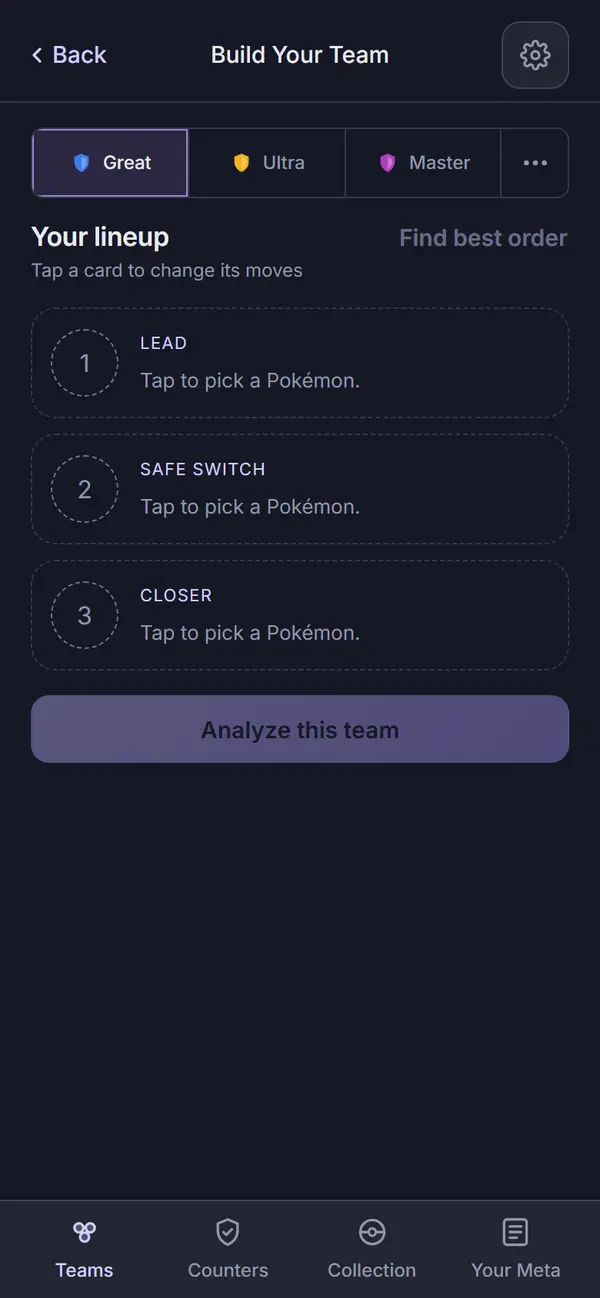
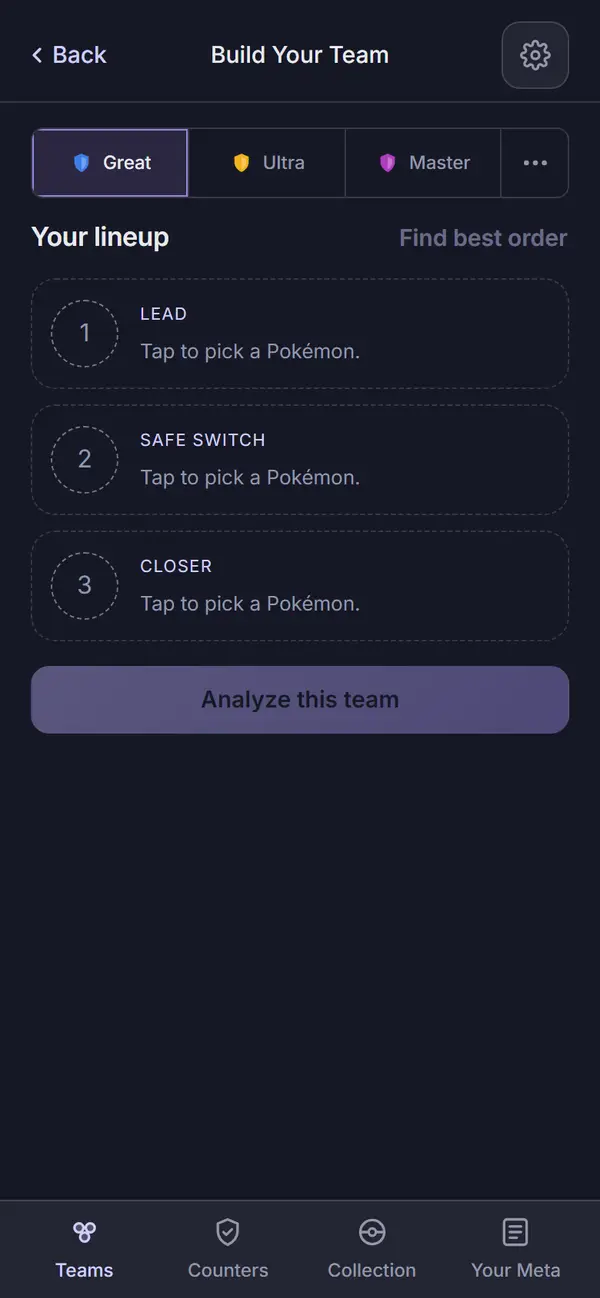
Design: Build record after the final fix wave
The + Add test now asserts that no search opens, so the record's claim stands. The text-levels
tick names the 19px card name as a kept exception for Travis to rule on; shadowToken's count is
22; a suggestion row is described as the button it is, with "+ Add" as its cue; Ruling 3 says it
departs from the spec's "'Choosing' moves to the next empty one"; the 12px supporting text is
deferred to one app-wide pass. Fresh web:audit captures (the empty-board hint gone, "88 XL Candy"
on one line), new test citations, counts and findings rows for the wave. Sign-off left unticked.

Claude-Session: https://claude.ai/code/session_01QpDSW9ZhLWToL3VMBP1mJq

diff --git a/apps/web/test/build.test.tsx b/apps/web/test/build.test.tsx
@@ -429,6 +429,8 @@ describe('Build a team', () => {
     await pickFirst('tink', 'Tinkaton');
     fireEvent.click(await screen.findByRole('button', { name: 'Add Azumarill' }));
     await screen.findByRole('button', { name: 'Remove Azumarill' });
+    // + Add opens no search: the next empty slot stays shut.
+    expect(screen.queryByPlaceholderText(/Search any Pokémon/)).not.toBeInTheDocument();
     expect(screen.getByRole('button', { name: 'Closer, empty' })).toBeInTheDocument();
     await pickFirst('clod', 'Clodsire');
     await waitFor(() =>

diff --git a/docs/design/audits/build.md b/docs/design/audits/build.md
@@ -18,19 +18,23 @@ and shows those instead; nothing on this branch touched sprite rendering itself.
 ## Screenshots
 
 Dark and light at 390px, one pair per state, converted to WebP (600px wide, quality 72) the same
-way the Teams images were, from `apps/web/screenshots/<name>-{dark,light}.png` (2026-09-25 run).
+way the Teams images were, from `apps/web/screenshots/<name>-{dark,light}.png` (2026-09-25 run,
+re-captured in the final fix wave at `32959a7`: `build-empty` and `build-choosing` lost the lineup
+hint, which now waits for a card, and `build-cost`'s total keeps "88 XL Candy" on one line;
+`13b-build-moves` dark differs by a few bytes with nothing visible changed, and the other images
+came out byte for byte the same).
 `build-empty`, `13-build` and `build-cost` are full-page; `build-choosing`, `build-suggestions` and
 `13b-build-moves` are viewport shots (the last two mid-flow, where a full-page shot would include
 nothing new below the fold).
 
 | State | Dark | Light |
 | --- | --- | --- |
-| `build-empty`: three dashed empty slots, Find best order and Analyze both disabled | ![](img/build-empty-dark.webp) | ![](img/build-empty-light.webp) |
+| `build-empty`: three dashed empty slots, no lineup hint (there is no card to tap yet), Find best order and Analyze both disabled | ![](img/build-empty-dark.webp) | ![](img/build-empty-light.webp) |
 | `build-choosing`: the Lead slot's search open, "Choosing Lead" with the role's job above it, the Suggested grid ("yours" tags on owned species) | ![](img/build-choosing-dark.webp) | ![](img/build-choosing-light.webp) |
 | `build-suggestions`: one pick made (Skarmory), "Best with your first pick" with two + Add rows, each a reason against the pin alone | ![](img/build-suggestions-dark.webp) | ![](img/build-suggestions-light.webp) |
 | `13-build`: all three slots filled with species picks (none owned), "None of these are yours yet, so there is nothing to price.", Analyze enabled (full page) | ![](img/13-build-dark.webp) | ![](img/13-build-light.webp) |
 | `13b-build-moves`: the move sheet open on Azumarill, two charged moves ticked, the third disabled with "Untick one to pick another" and a "Changed" tag on the swapped move | ![](img/13b-build-moves-dark.webp) | ![](img/13b-build-moves-light.webp) |
-| `build-cost`: all three slots filled with owned specimens (Galarian Corsola, Clodsire, Feraligatr), "Total to build" with a real Stardust/Candy/XL Candy/Elite TM total (full page) | ![](img/build-cost-dark.webp) | ![](img/build-cost-light.webp) |
+| `build-cost`: all three slots filled with owned specimens (Galarian Corsola, Clodsire, Feraligatr), "Total to build" with a real Stardust/Candy/XL Candy/Elite TM total, each number kept with its unit across the wrap (full page) | ![](img/build-cost-dark.webp) | ![](img/build-cost-light.webp) |
 
 Not captured: the analyze error state (`ErrorState` on a failed `analyze()`), the "Finding the best
 order..." transient, the verdicts-loading progress bar under the grid, and dragging a card. None of
@@ -41,11 +45,12 @@ confirms the grip and drag effect were kept, not rebuilt).
 ## Automated checks
 
 - [x] `npm run web:audit` clean for this page's screens (listed in `AUDIT_ENFORCED`), run
-      2026-09-25 against commit `976a834`: exit 0. Zero findings on all six enforced Build screens
-      (`build-empty`, `build-choosing`, `build-suggestions`, `13-build`, `13b-build-moves`,
-      `build-cost`), in both themes. 978 findings remain on screens not yet redesigned, none
-      failing the run.
-- [x] the run's own guards, all passed in this run (per Task 5's fixes):
+      2026-09-25 against commit `976a834` and again in the final fix wave against `32959a7`: exit
+      0 both times. Zero findings on all six enforced Build screens (`build-empty`,
+      `build-choosing`, `build-suggestions`, `13-build`, `13b-build-moves`, `build-cost`), in both
+      themes. 978 findings remain on screens not yet redesigned, none failing the run.
+- [x] the run's own guards, all passed in both runs (per Task 5's fixes; the values below are the
+      same in each):
   - the header's title left edge and last icon-button's right edge sit within the tolerance of the
     league row's edges (`build-empty`: `{"left":2,"right":0}`);
   - `assertTitleCentred()` holds on Build (checked on `21-log-battle` too, since the fix moved the
@@ -55,15 +60,18 @@ confirms the grip and drag effect were kept, not rebuilt).
   - suggestions never fill a slot on their own (`build-suggestions`: exactly one `.pick-card.filled`
     after Skarmory is picked and `.mate-row` appears);
   - `build-cost`'s `.build-cost` box contains a real "Total to build" line, not a placeholder.
-- [x] no console errors: the run printed no "Browser errors" section.
+- [x] no console errors: neither run printed a "Browser errors" section.
 - [x] `npm run ui:audit` re-run 2026-09-25: "gallery audit: clean in dark and light" (unaffected by
-      this task; run as the standing smoke check).
+      this task; run as the standing smoke check). Not re-run in the final fix wave: nothing under
+      `packages/ui` changed there.
 - [x] `npm run meta:screens` re-run 2026-09-25: exit 0, a smoke check for `packages/ui/base.css`'s
-      `.pick-move-k` color change, which also reaches meta.pick3.gg's Species page.
+      `.pick-move-k` color change, which also reaches meta.pick3.gg's Species page. Not re-run in
+      the final fix wave: nothing under `packages/ui` or `apps/meta` changed there.
 - [x] `npm run lint`, `npm run typecheck`, `npm test`, `npm run check-colors`, `npm run
-      check-tokens`, all re-run 2026-09-25 at `976a834`: lint exit 0; typecheck exit 0 across all
-      workspaces; `npm test` 131 files, 1,131 tests passed; `check-colors` exit 0 (baseline
-      untouched); `check-tokens`: ok.
+      check-tokens`, all re-run 2026-09-25 at `976a834` and again in the final fix wave (code at
+      `32959a7`): lint exit 0; typecheck exit 0 across all workspaces; `npm test` 131 files, 1,131
+      tests passed, then 1,138 after the wave's seven new Build tests; `check-colors` exit 0
+      (baseline untouched); `check-tokens`: ok.
 
 ## Aesthetics
 
@@ -75,27 +83,35 @@ confirms the grip and drag effect were kept, not rebuilt).
       branch (visible and legible on Melmetal's steel disc, Corsola's and Clodsire's split discs,
       and Skarmory's Steel/Flying disc, in both themes). No pink appears on this page: Build has no
       measured data of its own, only PvPoke-assumed IVs and your own specimen stats.
-- [x] at most four text levels, one page title: one page title, "Build Your Team", in every
-      capture (`Header variant="sub"`). Levels visible across the captures: the page title;
-      section heads and card/species names (both bold, unified at `--fs-section`/600 for the
-      section heads per Task 5's fix, and 19px/700 for a card's own species name); body and
-      explanation text (the role's job line, the move lines, the IV/level line); and small muted
-      text (the role pill, "yours" and "Changed" tags, the "TM" badge, the hint lines). No fifth
-      level found in any capture.
+- [x] at most four text levels, one page title, **with one kept exception for Travis to rule on
+      at sign-off**: one page title, "Build Your Team", in every capture (`Header variant="sub"`).
+      Levels visible across the captures: the page title; section heads ("Your lineup", "Choosing
+      Lead", "Best with your first pick"), unified at `--fs-section` (17px)/600 per Task 5's fix;
+      body and explanation text (the role's job line, the move lines, the IV/level line); and
+      small muted text (the role pill, "yours" and "Changed" tags, the "TM" badge, the hint
+      lines). The exception: a card's own species name is 19px/700 (`.pick-name`,
+      `apps/web/src/app.css`), a size of its own, visibly larger than "Your lineup" in `13-build`,
+      `13b-build-moves`, `build-suggestions` and `build-cost`, and not on the foundation's scale
+      (24/17/15/13, plus 11 for labels). It is kept as today's card, since the spec has Build keep
+      today's cards; counted on its own it would be a fifth level. The alternative is one rule,
+      `.pick-name { font-size: var(--fs-section); font-weight: 600 }`, and a recapture of those
+      four screens.
 - [x] one filled primary button: `Build.tsx` renders exactly one `Button variant="primary"`
       ("Analyze this team", disabled until all three slots are filled) and exactly one other named
       `Button`, `variant="text"` ("Find best order", also disabled until full); the move sheet's
-      "Reset to recommended" is the same text variant. "+ Add" on a suggestion row is a plain
-      text-style link (`.mate-add`: `color: var(--accent-text)`, no background), not a button
-      variant. Confirmed in every capture that shows one of these: `build-empty` (both disabled),
+      "Reset to recommended" is the same text variant. On a suggestion row the whole row is the
+      button (`TeammateSuggestions.tsx`, `aria-label="Add <name>"`), a surface card and not a
+      button variant; "+ Add" is its visible cue only (`.mate-add`, `aria-hidden`,
+      `color: var(--accent-text)`, no background), as the spec asks ("the whole row is the
+      button, the + its visible cue"). Confirmed in every capture that shows one of these: `build-empty` (both disabled),
       `13-build` and `build-cost` (both enabled).
 - [x] chips tapped, tags read: the type chips (Water, Ground, Fairy, Steel, and so on) are
       read-only labels on every card and offer row, never pressable. The "yours" and "Changed"
       tags are the neutral `ui` `Tag` (global constraint 7; the grid's "yours" was a raw
       `<span className="tag">` until the Task 4 review's I2, fixed in `4020159`). The role pill
       (LEAD / SAFE SWITCH / CLOSER) is a read-only label on the card, not a control. No pressable
-      chip row exists on Build; "+ Add" is the only tap target inside a suggestion row, and it
-      fills the slot rather than toggling a chip.
+      chip row exists on Build; a suggestion row is one tap target as a whole (its "+ Add" is a
+      cue, not a separate control), and it fills the slot rather than toggling a chip.
 - [x] the right header variant: every capture uses `Header variant="sub"` (a labeled back link,
       centered title, and a `Settings` `IconButton` on the right), matching Build's own row in the
       inventory ("Available actions": "Back", "Cog: Settings sheet"). The title's left edge and
@@ -139,7 +155,10 @@ confirms the grip and drag effect were kept, not rebuilt).
   - Per-team move overrides that do not touch the collection: the "Changed" tag on Hydro Pump in
     `13b-build-moves`, tested by `MovePicker.test.tsx`'s "shows the recommended set and tags what
     differs from it" and `build.test.tsx`'s "shows the move pool once it arrives, and each move
-    change at once".
+    change at once". The card's "Moves changed" tag shows only while the moves differ from the
+    recommendation: Reset to recommended, or the recommended charged pair ticked again in the
+    other order, clears it (`build.test.tsx`'s "says Moves changed only while the moves differ
+    from the recommendation", final fix wave I2).
   - Search input at the top, results under it, slots under that (the mobile input rule): see the
     dedicated line below.
   - Suggested picks when the search is empty (recent opponents plus top meta, your own specimen
@@ -149,20 +168,25 @@ confirms the grip and drag effect were kept, not rebuilt).
     one-line reason ("Beats Shadow Ninetales, Galarian Corsola, Corviknight and 15 more that
     Skarmory loses to.") and no numeric score; the verdict belongs to Analyze, unchanged.
 - [x] every control does what its label says: league tabs switch league and move pools (unchanged
-      code, not re-tested here); an empty slot opens its search (`build-choosing`); a filled card
-      opens the move sheet (`13b-build-moves`; `build.test.tsx`'s "opens and closes the moves sheet
-      for a filled slot" and "opens the move sheet from a card, with Analyze as the one primary
-      button"); "+ Add" fills the first empty slot without opening a search
-      (`build.test.tsx`'s "+ Add fills the first empty slot and the list goes once all three are
-      in"); Find best order and Analyze are disabled until the team is full
-      (`build-empty`) and enabled once it is (`13-build`, `build-cost`).
+      code), and a switch takes the old league's teammate rows down at once, with no new ask
+      until the new league's bundle has loaded (`build.test.tsx`'s "takes the old league
+      teammates down the moment the league changes", final fix wave I1); an empty slot opens its
+      search (`build-choosing`); a filled card opens the move sheet (`13b-build-moves`;
+      `build.test.tsx`'s "opens and closes the moves sheet for a filled slot" and "opens the move
+      sheet from a card, with Analyze as the one primary button"); "+ Add" fills the first empty
+      slot without opening a search (`build.test.tsx`'s "+ Add fills the first empty slot and the
+      list goes once all three are in", which asserts that no search input is open after the add);
+      Find best order and Analyze are disabled until the team is full (`build-empty`) and enabled
+      once it is (`13-build`, `build-cost`).
 - [x] back returns to the origin with filters and scroll, for the flows this task touched: the
       inventory's original rule ("Back '<Teams>': always goes to Teams") is superseded by Ruling 5
       (back is labeled "Back" and the origin varies): `history.ts`'s `markEntry`/`canGoBack` track
       how many pick3 screens sit behind the current one in this tab, and `Actions.back(fallback)`
       uses real browser back when there is somewhere to go, falling back to Teams only when there
-      is not. `build.test.tsx`'s "Back returns to Teams when Build was the first screen" and
-      `history.test.ts`'s four tests (including "keeps a marked entry's pick3Depth through
+      is not. `build.test.tsx`'s "Back returns to Teams when Build was the first screen" (the
+      fallback), "Back goes back through history when pick3 has a screen behind Build" (the origin
+      path: `canGoBack()` true, `window.history.back()` called) and `history.test.ts`'s four
+      tests (including "keeps a marked entry's pick3Depth through
       clearShareMarker", the Task 1 review's fix) cover it. Build carries no filters or scroll
       position of its own to preserve.
 - [x] input layout rule: applicable here (Build has a text input, unlike Teams). `build-choosing`
@@ -171,14 +195,15 @@ confirms the grip and drag effect were kept, not rebuilt).
       (`TeammateSuggestions`) are the shortcut content and are hidden whenever a slot's search is
       open (`Build.tsx`: `{target === null && (pinned === 1 || pinned === 2) ? <TeammateSuggestions
       .../> : null}`, with the comment "Shortcuts last, and hidden while a slot's search is open:
-      the keyboard covers them.") per Ruling 3. This gating has no capture or unit test of its own;
-      it is confirmed by reading the code, not by a passing assertion, so it is ticked on the
-      strength of the `must keep` line ("Search input at the top... the mobile input rule") that
-      the same code satisfies elsewhere, not on a dedicated check. Flagged again under Findings.
+      the keyboard covers them.") per Ruling 3. `build.test.tsx`'s "hides the suggestions while a
+      slot search is open" opens Safe Switch's search with a list up, finds no "Suggested
+      teammates" region, presses Escape and finds it again.
 - [x] icon buttons named; focus visible: the header's `Settings` `IconButton` carries the label
       "Settings" (`Header.tsx`, unchanged); the X on a filled card empties the slot (unchanged,
-      pre-existing `aria-label`); "+ Add" carries `aria-label="Add <name>"` (Task 3's report and
-      review, confirmed by an accessibility check in the review); the shared `Button`/`IconButton`
+      pre-existing `aria-label`); a suggestion row is one button named "Add <name>" by its
+      `aria-label`, with the visible "+ Add" cue `aria-hidden` (Task 3's report and review,
+      confirmed by an accessibility check in the review, and the name every `build.test.tsx`
+      suggestion test clicks by); the shared `Button`/`IconButton`
       focus-visible outline is the one audited on other pages (gallery record), unchanged here.
 - [x] product rules: assumptions shown ("Not yours; top-10% IVs assumed", "from your X",
       "None of these are yours yet, so there is nothing to price." and the unbuildable-count line
@@ -187,11 +212,11 @@ confirms the grip and drag effect were kept, not rebuilt).
       community read, is the same league-only board fetch used on Teams, gated the same way);
       `connect-src` unchanged (no CSP edit on this branch); sharing copy is not applicable to
       Build (no sharing toggle lives on this screen).
-- [x] tests cover the new behavior: `apps/web/test/build.test.tsx` (15 cases),
-      `apps/web/test/lineupCost.test.ts` (4), `apps/web/test/MovePicker.test.tsx` (9),
-      `apps/web/test/teammateSuggestions.test.tsx` (3), `apps/web/test/history.test.ts` (4),
-      `apps/web/test/shadowToken.test.tsx` (5) and `packages/ui/test/Sheet.test.tsx` (8, one new
-      for this branch).
+- [x] tests cover the new behavior: `apps/web/test/build.test.tsx` (22 cases: 15, plus 7 from the
+      final fix wave), `apps/web/test/lineupCost.test.ts` (4), `apps/web/test/MovePicker.test.tsx`
+      (9), `apps/web/test/teammateSuggestions.test.tsx` (3), `apps/web/test/history.test.ts` (4),
+      `apps/web/test/shadowToken.test.tsx` (22: 4 fixed cases plus 18 generated, one per type) and
+      `packages/ui/test/Sheet.test.tsx` (8, one new for this branch).
 - [x] the new behaviors (this plan's Rulings, see below for the rulings themselves):
   - Ruling 1 (suggestions list = each offer's first fill): `teammateOffers` dedupes by species and
     excludes anything already on the board, tested by all three cases in
@@ -199,13 +224,15 @@ confirms the grip and drag effect were kept, not rebuilt).
     each, neither already picked).
   - Ruling 2 (heading text by fill count): `filled === 1 ? 'Best with your first pick' :
     'Best with your first two'` (`TeammateSuggestions.tsx`). The one-fill heading is captured
-    (`build-suggestions`); the two-fill heading has no capture and no test of its own (none of the
-    six enforced screens reaches two pins before the third fills the board). Traced in code only;
-    flagged under Findings.
+    (`build-suggestions`); the two-fill heading has no capture (none of the six enforced screens
+    reaches two pins before the third fills the board) and is covered by `build.test.tsx`'s
+    "heads the list by how many are on the board", which picks Tinkaton, adds Azumarill and finds
+    "Best with your first two" over the next list.
   - Ruling 3 (suggestions hidden while a slot's search is open; + Add opens no search): the
-    `target === null` gate above; `build.test.tsx`'s "+ Add fills the first empty slot and the
-    list goes once all three are in" confirms + Add does not open a search, but no test asserts
-    the list disappears while a search is open. Traced in code only; flagged under Findings.
+    `target === null` gate above, tested by `build.test.tsx`'s "hides the suggestions while a slot
+    search is open"; "+ Add fills the first empty slot and the list goes once all three are in"
+    asserts that no search input is open after + Add. This ruling departs from one spec
+    sentence; see Ruling 3 under "Rulings applied" below.
   - Ruling 4 (total cost counts your own Pokémon only): `build-cost` shows a real total for three
     owned picks; `13-build` shows "None of these are yours yet, so there is nothing to price." for
     zero; `lineupCost.test.ts`'s four cases (including the mixed priced/unbuildable/unpriced case
@@ -238,10 +265,14 @@ confirms the grip and drag effect were kept, not rebuilt).
 | Seen in the captures, not caught by axe: the sub header sat off the gutter; "Find best order" sat 8px inside the gutter and its 44px target pushed the hint line down; filled cards and the cost box had no border (most visible in light); the three section heads did not share one size and weight. | `.hdr` padding-right (later replaced, see the next row); `margin-block: -12px` and no right padding on the "Find best order" button; a 1px `--divider` border and `--r-card` radius on filled/empty cards and `.build-cost`; section heads unified at `--fs-section`/600. | `366a2a5` |
 | Coordinator's look at the first captures: the "SAFE SWITCH" role pill wrapped to two lines in the 88px sprite column; `13-build`'s picks were unchanged species with nothing to price, so no total was captured; `13-build` was a viewport shot with text under the sticky header. | Pill set `white-space: nowrap` (later revised, see below); a new enforced `build-cost` capture fills three slots from owned specimens and asserts a real "Total to build" line; `13-build` shot full page from the top instead of scrolled/cropped. | `9385554` |
 | Review round 2: the `.hdr` padding-right fix moved every sub header's title 4px off centre (equal `1fr` side columns, unequal padding); a "·" separator could start a line in the cost box and the card's IV line; the role pill had no wrap fallback for a wider font; the Shadow glow contrast loop composited layers in the wrong order and could not fail. | The offset moved from `.hdr` to `.hdr-actions { margin-right: calc(var(--gutter) - 12px) }`, keeping the grid symmetric; a new `assertTitleCentred()` guards Build and `21-log-battle`. `format.ts` exports `SEP` (a non-breaking space plus "· "); `costLine`'s default join uses it, reaching Teams, Team Analysis and Build; Build's card line applies the same non-breaking space before "top", "Lv" and "from your". The pill becomes `width: max-content; max-width: 104px` (drops `nowrap`), one line today, wrapping instead of overlapping at a larger size. The glow layers are composited in true CSS paint order (first-listed layer on top), with a comment noting the halo dominates and the loop is a smoke check, not the real guard (the marker test and the halo/letter tokens are). | `976a834` |
-
-Not fixed, still open (Ruling 2's two-fill heading text, Ruling 3's hide-while-searching gate): both
-read correctly in the source and neither is contradicted by any test, but neither has a capture or
-a dedicated assertion of its own. See the two matching lines under Functionality above.
+| Final review I1: `league-start` cleared everything derived from a league except the teammate list, so after a league switch the old league's rows stayed up with a working + Add. Found while writing the test: Build's effect runs before the provider's league effect, so it also asked straight away for the new league while `leagueInfo` still held the old league's bundle (and its community read). | `league-start` clears `suggestion` and `suggestError`; `suggestTeammates` and Build's effect both wait until `leagueInfo.id` matches the league in settings. Test: "takes the old league teammates down the moment the league changes" (Ultra's bundle held pending: the rows go, and no second ask). | `39c913d` |
+| Final review M11: a Source or Window change on the same board kept the old list up, framed against the previous source, until the board changed. | The `settings` reducer clears the list and its error when the facing scope changes (as it already did for counters), and Build's ask key carries `facingScope(settings)`. Test: "asks again when the facing source changes on the same board". | `39c913d` |
+| Final review I2: the card said "Moves changed" after Reset to recommended, or after the recommended charged pair was ticked again in the other order, while the sheet showed no change. | `MovePicker`'s `sameIds` compares charged moves as a set (and is exported); Build's `setMoves` drops `moves` from the pick when they match the pool's recommendation. Test: "says Moves changed only while the moves differ from the recommendation". | `9b72236` |
+| Final review M1 and M2: the two-pick heading, suggestions hidden while a search is open, and `back()`'s origin path had no test. | Three `build.test.tsx` cases: "heads the list by how many are on the board", "hides the suggestions while a slot search is open", "Back goes back through history when pick3 has a screen behind Build". | `32146c4` |
+| Final review M3, M4: stale comments in `Build.tsx` (every pick change clears the list) and `community.ts` (the retired Suggest teammates chip). | Reworded: "A pick change that changes the board clears the list; a move change keeps it." (landed with the key change in `39c913d`) and "read for Build's teammate suggestions". | `39c913d`, `32959a7` |
+| Final review M5: `build-cost`'s total wrapped "88 XL" / "Candy". | `costLine` holds each number and its unit together with non-breaking spaces ("88 XL Candy", "1 Elite TM"); it reaches Teams and Team Analysis the same way `SEP` did. `format.test.ts` and `teamComponents.test.tsx` updated; `build-cost` recaptured. | `32959a7` |
+| Final review M6: "Tap a card to change its moves" showed on an empty board, and "Ordered by pick3" stayed up after a card was removed. | The hint shows only with at least one pick; `removePick` resets the ordered flag. Tests: the lineup test now expects no hint on an empty board and the hint after a pick; "drops the Ordered by pick3 hint once a card is removed". `build-empty` and `build-choosing` recaptured. | `32959a7` |
+| Final review I3, I4, M7, M8, M9, M10: record claims. I3: "+ Add opens no search" was credited to a test that did not check it. I4: the text-levels tick merged 17px/600 and 19px/700. M7: `shadowToken.test.tsx` has 22 cases, not 5. M8: + Add was described as a link, but the whole row is the button. M9: Ruling 3 departs from a spec sentence without saying so. M10: Build's `.meta` stays 12px. | I3: the test now asserts no search input is open after + Add. I4: the tick names the 19px card name as a kept exception for Travis (see Aesthetics). M7: counts corrected. M8: wording corrected in Aesthetics and Functionality. M9: stated under Ruling 3 below. M10: deferred, see Open items. | this record's commit |
 
 ## Rulings applied on this piece (from the plan, costs as written)
 
@@ -252,7 +283,11 @@ a dedicated assertion of its own. See the two matching lines under Functionality
    first two" (two). [Cost if wrong: one string.]
 3. **Suggestions hide while a slot's search is open**, per the mobile input rule; + Add fills the
    first empty slot and opens no search. [Cost if wrong: show them under an open search, one
-   condition.]
+   condition.] **This departs from one spec sentence**: the spec's "Adding fills the first empty
+   slot; 'Choosing' moves to the next empty one." Because + Add opens no search, "Choosing" does
+   not move; the next empty slot waits for a tap, and the list re-runs against the new board.
+   The ruling follows CLAUDE.md's input rule (shortcuts hidden while searching, and the phone
+   keyboard covers everything under an input); signing this record accepts the departure.
 4. **Total cost counts your own Pokémon only**; a species pick has no build cost, and the line
    under the total says how many are not counted. [Cost if wrong: a stand-in cost estimate, an
    engine call.]
@@ -282,6 +317,13 @@ Visible changes outside Build, from this branch:
   `TeamDetail`'s own hand-written `'Level X to Y · '` wrapper text around `costLine`, and
   `TeamRowSummary`/`Specimen`/`Teams`'s own `' · '` joins, still use plain spaces and can still
   break a line on a dot; open for the Analysis plan.
+- Each number in a cost line keeps its unit (final fix wave, M5): `costLine` joins the number and
+  unit words with non-breaking spaces, so "88 XL Candy" and "1 Elite TM" never split across a
+  wrap. Like `SEP`, this reaches `TeamCardBody` (Teams) and `TeamDetail` (Team Analysis) as well
+  as Build. It is visible on Teams: in `teams-second-open` the first open card's cost line used to
+  break "2 Elite" / "TM" and now moves "2 Elite TM" to the next line whole. The signed Teams
+  record's images were left as signed (not recaptured); `web:audit` stayed clean on every
+  enforced Teams screen.
 - F/C move letters and empty-slot numbers move from `--faint` to `--muted`; `.pick-move-k`'s color
   reaches meta.pick3.gg's Species page (a byte-for-byte port of the same class), checked clean by
   `meta:screens`.
@@ -301,6 +343,13 @@ Open items for Travis (not fixed on this branch):
 - **`TeamDetail`'s own " · " spacing** still uses plain spaces around its hand-written cost-line
   wrapper text, so a dot can start a line there even though `costLine` itself now keeps its dots
   with their words. Left for the Analysis plan.
+- **Build's supporting text stays at 12px (final review M10), deferred.** The foundation spec
+  ("Type") moves `.meta` from 12px to `--fs-support` (13px) when its page is redesigned. Build's
+  hint, job line, Suggested label, reasons and cost lines are all still `.meta` at 12px, the same
+  as on the signed Teams page. The 13px supporting size lands in one app-wide pass later, not page
+  by page, so Build and Teams move together.
+- **The 19px card name (final review I4)**: see the text-levels line under Aesthetics; keep it as
+  today's card, or set `.pick-name` to `--fs-section`/600 and recapture four screens.
 
 ## Sign-off
 
